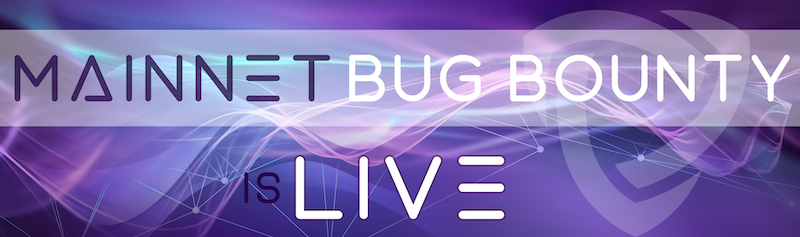
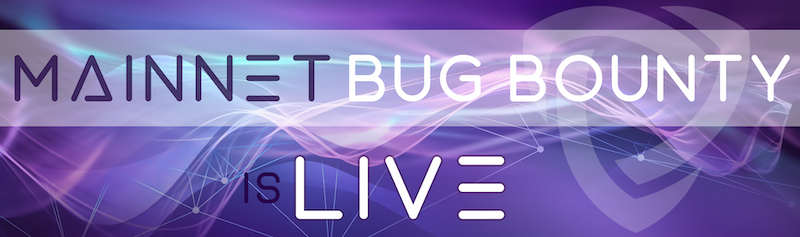
fix image

diff --git a/README.md b/README.md
@@ -1,6 +1,6 @@
 # Archethic Community Bug Bounty Program
 
-![Banner](assets/announcement_bug_bounty_banner.png?v=202207122)
+![Banner](assets/announcement_bug_bounty_banner.png?v=202207123)
 
 ## Description of the Program
 
